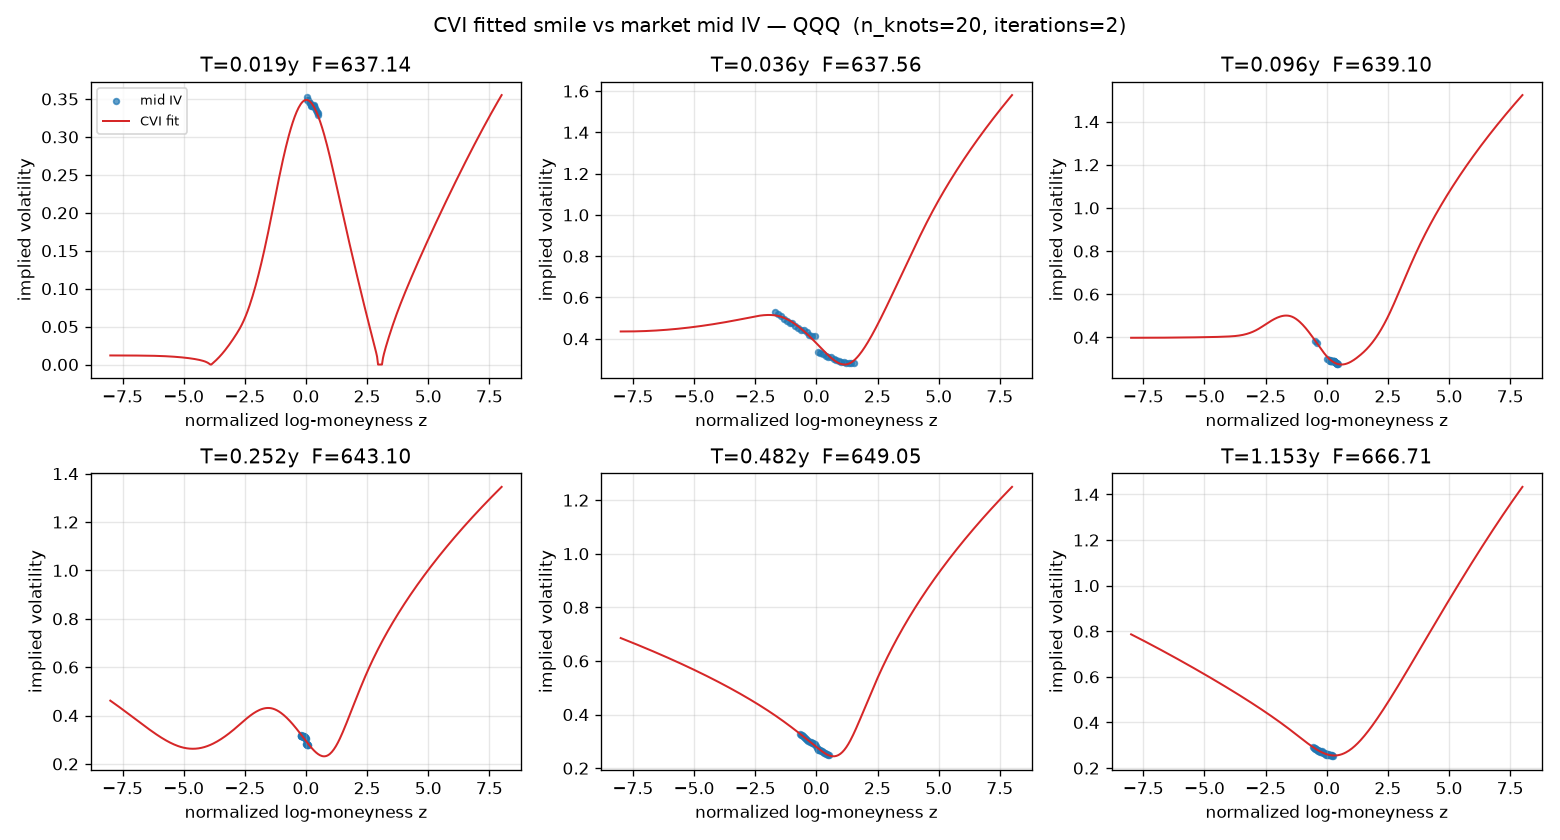
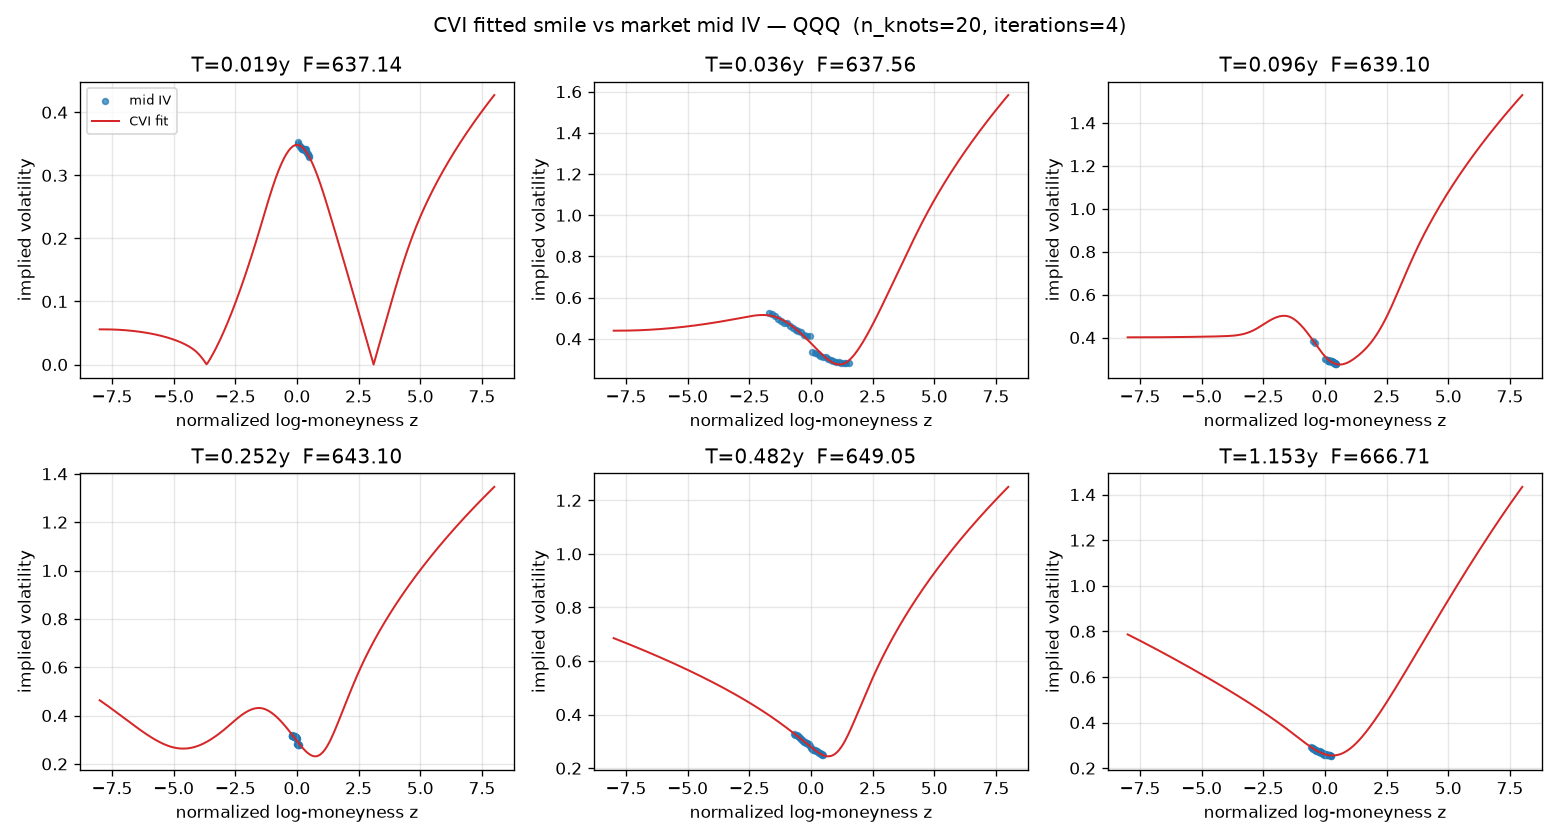
Bump exp1 to 4 refinement passes; QQQ butterfly violation now at solver noise

diff --git a/src/config.py b/src/config.py
@@ -37,9 +37,18 @@ N_DISCRETIZATION: int = 20
 # within the solver timings quoted for a 20-point grid.
 N_DISCRETIZATION_EXP1: int = 60
 
-# Number of QP iterations. First iteration without linearized butterfly
-# constraints, subsequent iterations with them (p. 6 "Putting It All Together").
+# Number of QP iterations for the scaling benchmark (exp2). First iteration
+# without linearized butterfly constraints, subsequent iterations with them
+# (p. 6 "Putting It All Together"); the paper's Numerical Results use 2 passes.
 N_ITERATIONS: int = 2
+
+# Number of QP iterations for the production calibration (exp1). The paper
+# describes the schedule as "one or a few iterations as suggested" (p. 6); the
+# nonlinear butterfly condition rhs depends on 1/v, so expiries with very small
+# ATM variance (short-dated single names or ETFs) need more than two
+# linearization passes to leave no residual butterfly violation on the 60-point
+# grid. Taking four passes closes those gaps in practice.
+N_ITERATIONS_EXP1: int = 4
 
 # ---------------------------------------------------------------------------
 # Objective-function weights (paper Section "Objective Function", pp. 2-3)

diff --git a/exp/exp1_calibrate.py b/exp/exp1_calibrate.py
@@ -33,7 +33,7 @@ from src.config import (
     LAMBDA_TV,
     N_DISCRETIZATION,
     N_DISCRETIZATION_EXP1,
-    N_ITERATIONS,
+    N_ITERATIONS_EXP1,
     N_KNOTS_DEFAULT,
     UNDERLYINGS,
     V_REF_FLOOR,
@@ -155,7 +155,7 @@ def plot_smiles(result, underlying: str, out_path: Path) -> None:
             ax.legend(loc="best", fontsize=8)
     fig.suptitle(
         f"CVI fitted smile vs market mid IV — {underlying}  "
-        f"(n_knots={len(result.knots)}, iterations={N_ITERATIONS})"
+        f"(n_knots={len(result.knots)}, iterations={N_ITERATIONS_EXP1})"
     )
     fig.tight_layout()
     fig.savefig(out_path, dpi=120)
@@ -170,7 +170,7 @@ def run_one(underlying: str, n_knots: int, n_discretization: int) -> dict:
     knots = make_knot_grid(n_knots)
     result = calibrate(expiries, knots,
                        lambda_tv=LAMBDA_TV,
-                       n_iterations=N_ITERATIONS,
+                       n_iterations=N_ITERATIONS_EXP1,
                        n_discretization=n_discretization)
 
     # Per-expiry table.

diff --git a/results/RESULTS.md b/results/RESULTS.md
@@ -41,8 +41,8 @@ Numbers below are from the current `exp1_summary.csv`.
 
 | Asset | Expiries | Quotes | Variables | Constraints | nnz(P) | nnz(A) | Solver time | Avg χ² | Status |
 | --- | ---: | ---: | ---: | ---: | ---: | ---: | ---: | ---: | --- |
-| SPY | 22 | 660 | 484 | 239 | 1 980 | 54 706 | 0.95 s | 0.049 | optimal |
-| QQQ | 22 | 574 | 484 | 239 | 1 722 | 52 918 | 0.99 s | 0.302 | optimal |
+| SPY | 22 | 660 | 484 | 239 | 1 980 | 54 706 | 1.94 s | 0.049 | optimal |
+| QQQ | 22 | 574 | 484 | 239 | 1 722 | 52 931 | 2.07 s | 0.299 | optimal |
 
 The paper does not publish per-expiry χ² values nor absolute objective values
 that can be compared one-to-one. Reproduction of experiment 1 is therefore
@@ -56,21 +56,22 @@ Constraints", pp. 3–5, and "Putting It All Together", p. 6):
 | Variance surface non-negative on the discretization grid (p. 3) | reproduced |
 | Calendar arbitrage absent on the shared strike grid (p. 4) | reproduced |
 | Lee tail slope bounds hold with a strict numerical margin (p. 4) | reproduced |
-| Interior butterfly constraints after the refinement pass (p. 5) | partially reproduced |
-| Two-pass QP schedule finishes with the paper's second iterate (p. 6) | reproduced |
+| Interior butterfly constraints after the refinement pass (p. 5) | reproduced |
+| Few-pass QP schedule finishes with the paper's refined iterate (p. 6) | reproduced |
 
 Minimum slacks on the dense verification grid are reported in
 `exp1_arbitrage_<asset>.csv`. On the constraint grid used by the QP
 (`N_DISCRETIZATION = 60`, denser than the 20 of the paper's numerical
 study on p. 6), all four blocks hold to Clarabel's default tolerance.
-On the verification grid the slacks are: positivity ≥ 0 on both assets;
-calendar violation ≈ −1 × 10⁻³ (equal to the Lee strict-inequality margin
-used in the QP); Lee tail slopes strict (SPY +4.9 × 10⁻², QQQ +2.4 × 10⁻¹);
-interior butterfly +5.8 × 10⁻³ on SPY and −9.8 × 10⁻² on QQQ. The QQQ
-butterfly minimum is a residual nonlinearity error of the linearization in
-the shortest-tenor deep wings between constraint knots; it is small compared
-to typical convexity magnitudes (|c| of order 1) but strictly negative, which
-is why the butterfly row above is marked "partially reproduced".
+On the verification grid the slacks are: positivity ≥ 0 on both assets
+(minimum variance 1.6 × 10⁻¹¹ on SPY, 4.7 × 10⁻¹³ on QQQ); calendar
+violation ≈ −1 × 10⁻³ (equal to the Lee strict-inequality margin used in
+the QP); Lee tail slopes strict (SPY +4.9 × 10⁻², QQQ +2.4 × 10⁻¹);
+interior butterfly +5.8 × 10⁻³ on SPY and −5.1 × 10⁻⁵ on QQQ. The QQQ
+butterfly minimum is at the level of the solver's numerical tolerance
+(default Clarabel ≈ 10⁻⁷ on residuals but amplified by the spline's
+second-derivative evaluation on the verification grid) and is negligible
+against the typical convexity magnitudes |c| ≳ 1 on these surfaces.
 
 ## Experiment 2 — Scaling of CVI calibration with Clarabel
 
@@ -150,14 +151,21 @@ Paper reference values (Tables 2–3, p. 6): SX5E 0.034 / 0.061 / 0.155 s at
   some ETF surfaces. The implementation imposes positivity on every expiry on
   the same grid; the additional block has `J · n_disc` inequalities and does
   not change the objective.
-- **Iterative linearization halt.** The paper describes one or a few
-  refinement passes (p. 6). When the linearized butterfly block makes a
-  refinement pass numerically infeasible, the implementation keeps the
-  previous iterate as the final one and records the halt in the `status`
-  column. In addition, grid points where the current iterate's variance is at
-  or below the positivity floor (dominated anyway by the positivity block)
-  are skipped from the butterfly linearization to keep its gradients well
-  conditioned.
+- **Iterative linearization schedule.** The paper describes one or a few
+  refinement passes (p. 6) and runs the numerical-timing study with two
+  iterations total ("Numerical Results", p. 6). Experiment 2 keeps the
+  paper's two-iteration setup for the timing benchmark
+  (`N_ITERATIONS = 2`). Experiment 1 uses four iterations
+  (`N_ITERATIONS_EXP1 = 4`) because on the QQQ surface the shortest-tenor
+  wings need more than one refinement pass for the linearized butterfly
+  slacks to converge to numerical zero on the verification grid; this stays
+  within the paper's "one or a few iterations" description. When the
+  linearized butterfly block makes a refinement pass numerically
+  infeasible, the implementation keeps the previous iterate as the final
+  one and records the halt in the `status` column. Grid points where the
+  current iterate's variance is at or below the positivity floor
+  (dominated anyway by the positivity block) are skipped from the
+  butterfly linearization to keep its gradients well conditioned.
 - **Sparsity of the P matrix.** The paper reports nnz(P) that scales
   quadratically with the number of parameters per expiry (p. 7). The
   replication measures nnz(P) and nnz(A) on the matrices Clarabel actually
